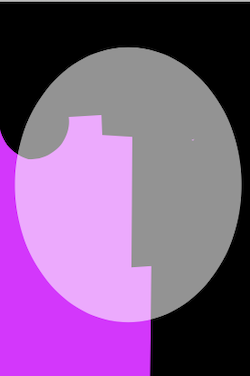
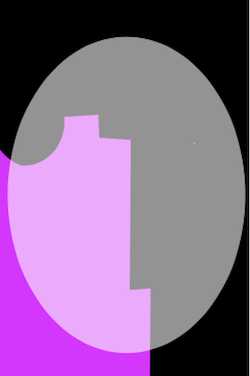
edited animarm

Changed region(s): [[0.0, 0.0, 1.0, 1.0], [0.364, 0.2926, 0.616, 0.7899], [0.224, 0.2926, 0.28, 0.4096]]

diff --git a/stylefp.css b/stylefp.css
@@ -106,6 +106,14 @@ footer{
     padding: 3px;
     text-decoration: none;
   }
+  .armup{
+    visibility:visible;
+    position: absolute;
+    left:-400px;
+    top:0px;
+  }
+
+     @media screen and (min-width:380px){
 .armup{
   position:absolute;
   left:450px;
@@ -118,8 +126,8 @@ footer{
     transform: translate(0, 0);    
   }
   100% {
-    transform: translate(1000px,-50px) rotate(1turn);
+    transform: translate(1200px,-50px) rotate(1.5turn);
   }
   
 }
-
+ }

diff --git a/animarm.js b/animarm.js
@@ -86,7 +86,7 @@ function animateImage() {
 function replaceImagea() {
   arm1b.style.visibility = "visible";
   arm1a.style.visibility = "visible";
-  arm1a.style.left = `${parseInt(arm1a.style.left) + 200}px`;
+  arm1a.style.left = `${parseInt(arm1a.style.left) + 100}px`;
   arm1a.style.top = `${parseInt(arm1a.style.top) - 20}px`;
 
   animate = setTimeout(replaceImagea, 200);
